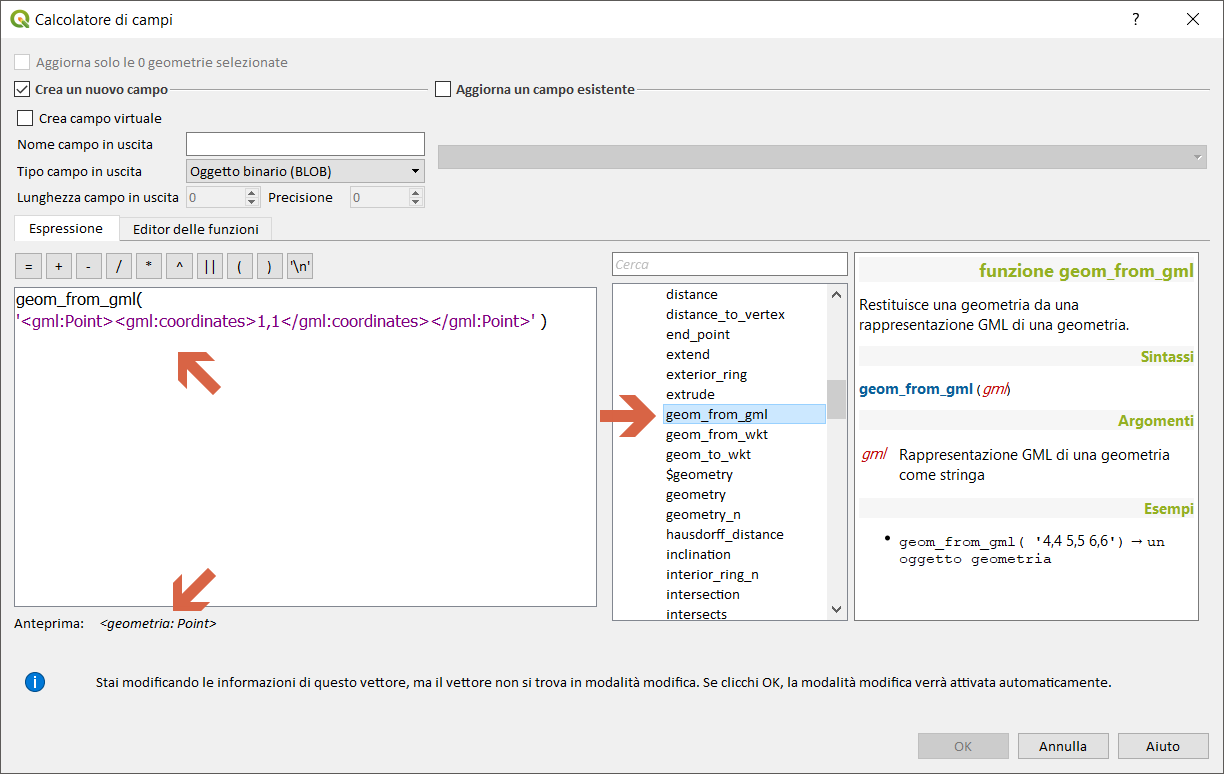
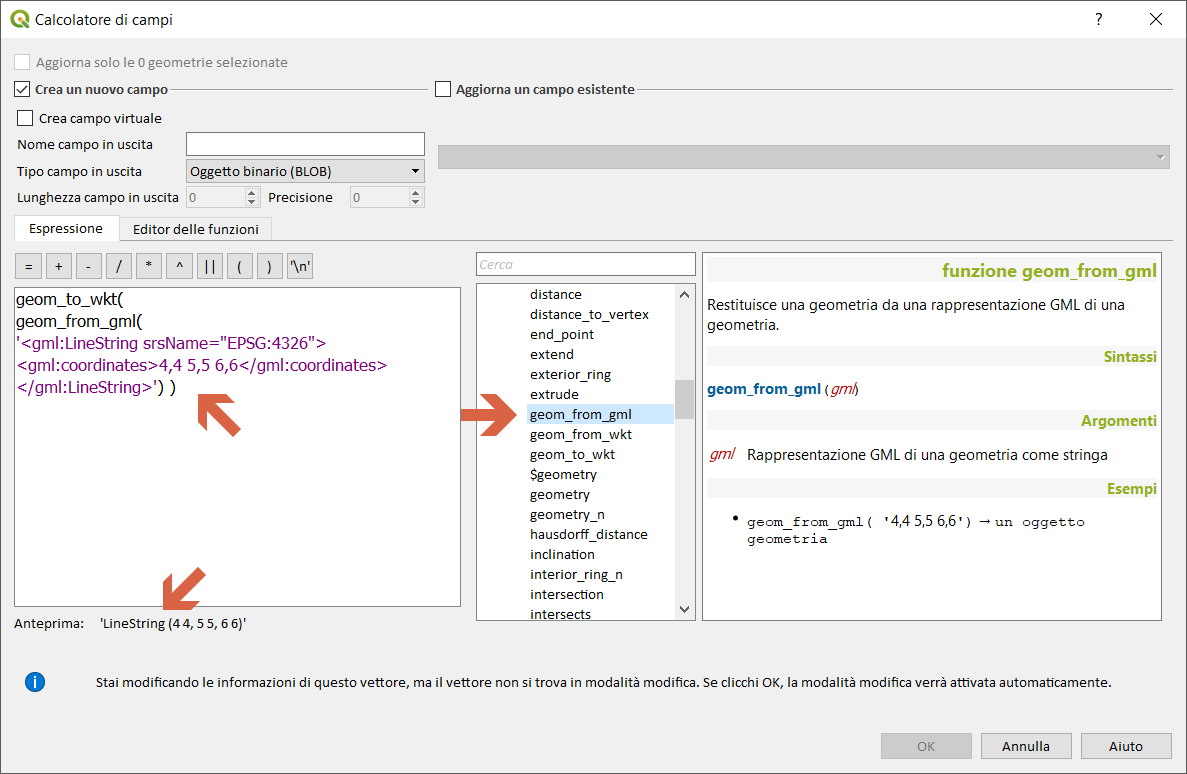
edit gml

diff --git a/gr_funzioni/geometria/funzioni/geom_from_gml.md b/gr_funzioni/geometria/funzioni/geom_from_gml.md
@@ -12,7 +12,7 @@ geom_from_gml(gml)
 
 ## Esempi
 
-* `geom_from_gml( '<gml:Point><gml:coordinates>1,1</gml:coordinates></gml:Point>' ) → <geometria: Point>`
+* `geom_to_wkt(geom_from_gml('<gml:LineString srsName="EPSG:4326"><gml:coordinates>4,4 5,5 6,6</gml:coordinates></gml:LineString>') )  → 'LineString (4 4, 5 5, 6 6)'`
 
 <img src="/img/geometria/geom_from_gml/geom_from_gml1.png">
 
